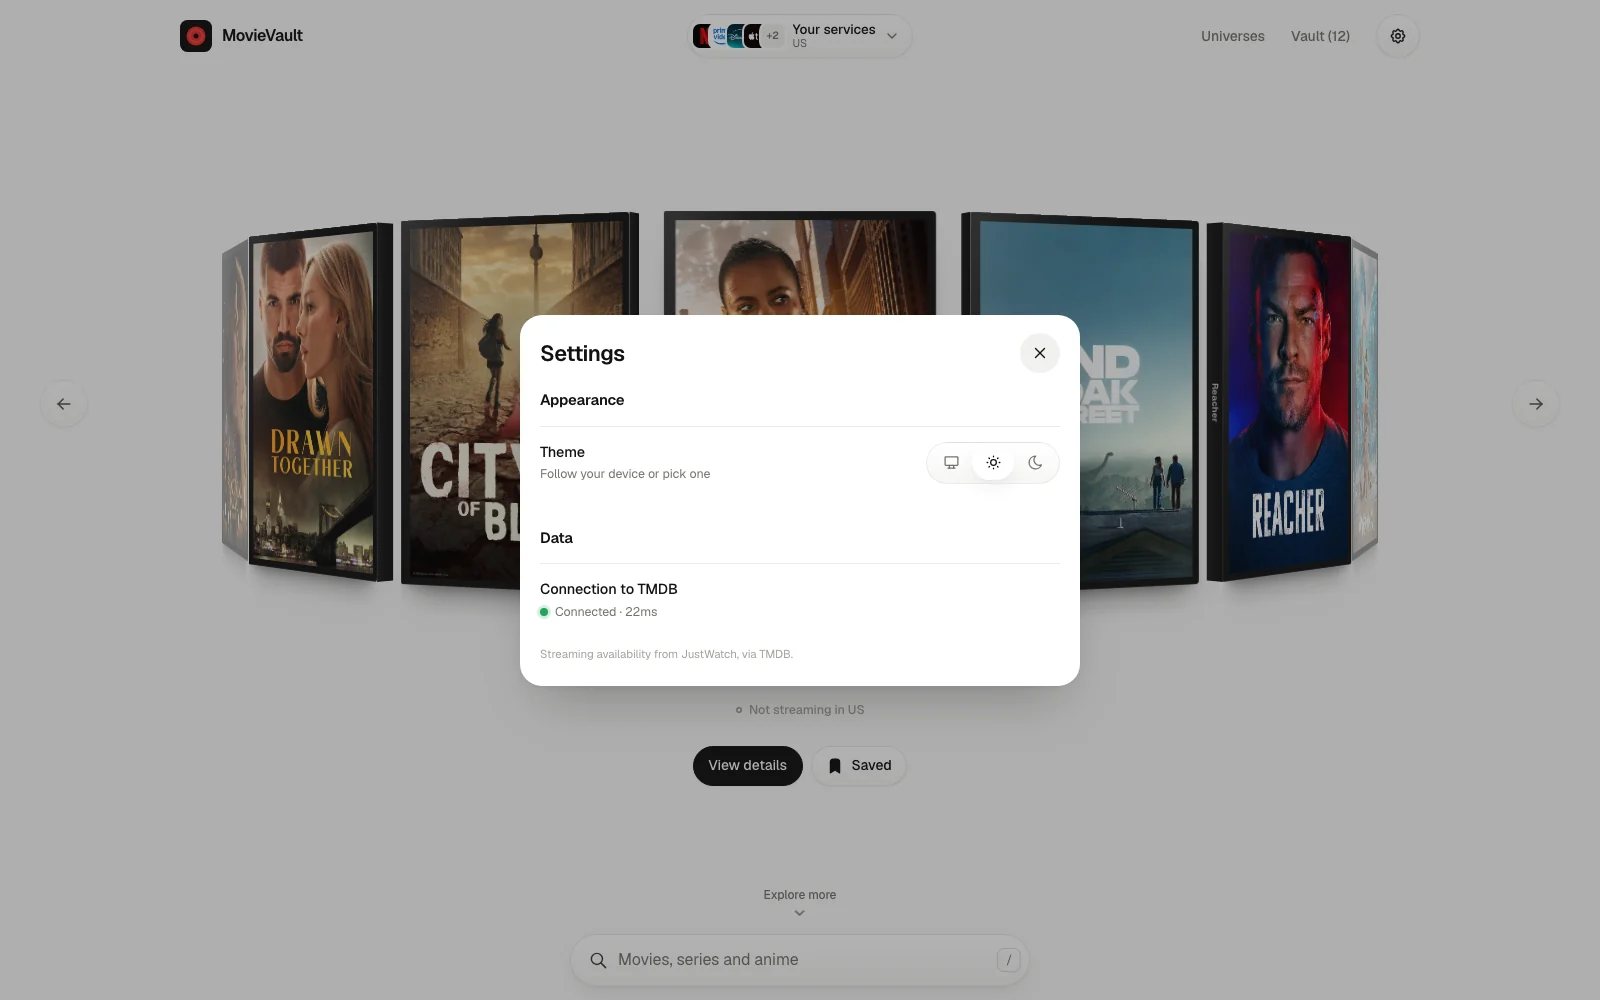
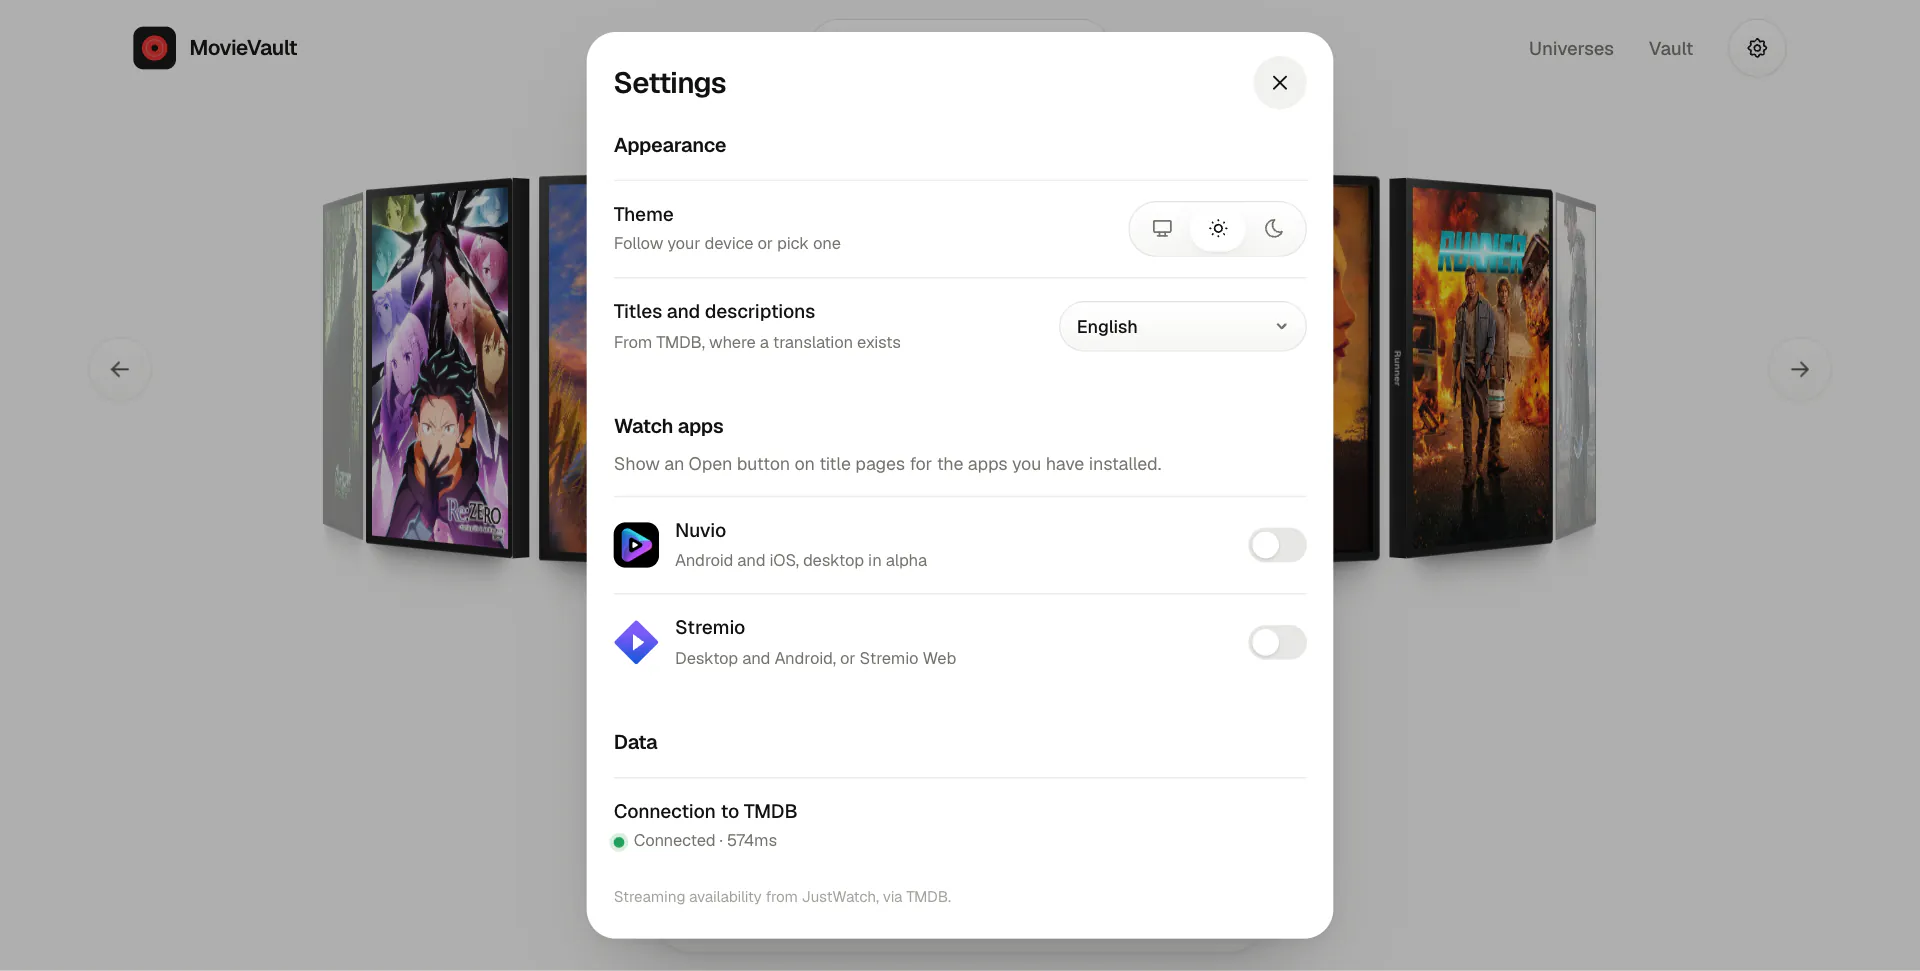
docs: refresh settings screenshot

diff --git a/README.md b/README.md
@@ -195,7 +195,7 @@ src/
 
 ![picking streaming services in the services sheet](./docs/screenshots/MovieVault-10.webp)
 
-![the settings sheet with appearance and the tmdb connection](./docs/screenshots/MovieVault-11.webp)
+![the settings sheet with theme, title language, watch apps and the tmdb connection](./docs/screenshots/MovieVault-11.webp)
 
 ![the reel in dark mode](./docs/screenshots/MovieVault-9.webp)
 
